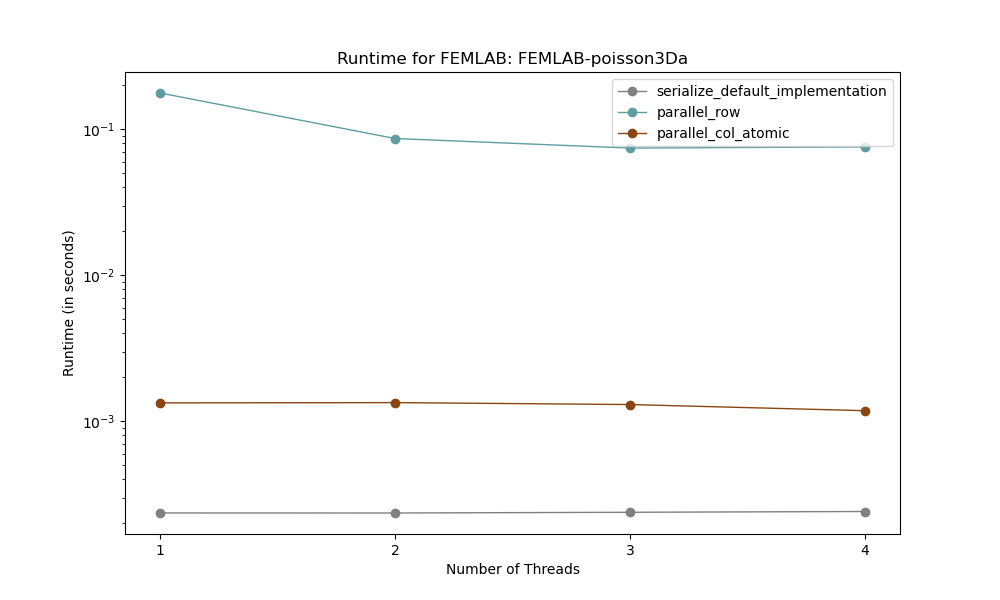
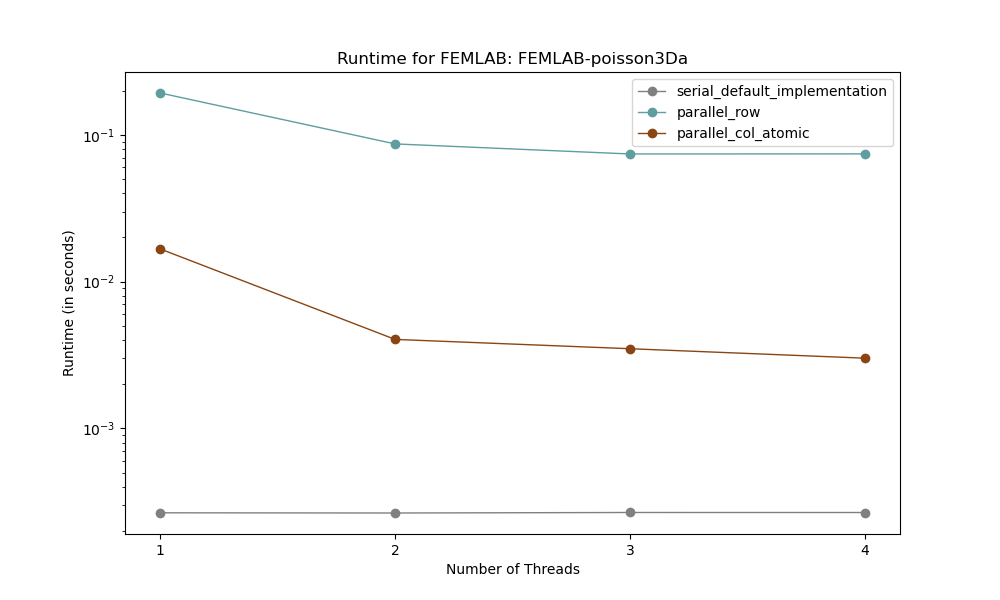
Create separate memory

diff --git a/parallel/spmv/graph.py b/parallel/spmv/graph.py
@@ -10,7 +10,7 @@ RESULTS_FOLDER = "results"
 
 NTHREADS = [1, 2, 3, 4]
 
-DEFAULT_METHOD = "serialize_default_implementation"
+DEFAULT_METHOD = "serial_default_implementation"
 METHODS = [DEFAULT_METHOD, "parallel_row", "parallel_col_atomic"]
 
 DATASETS = [
